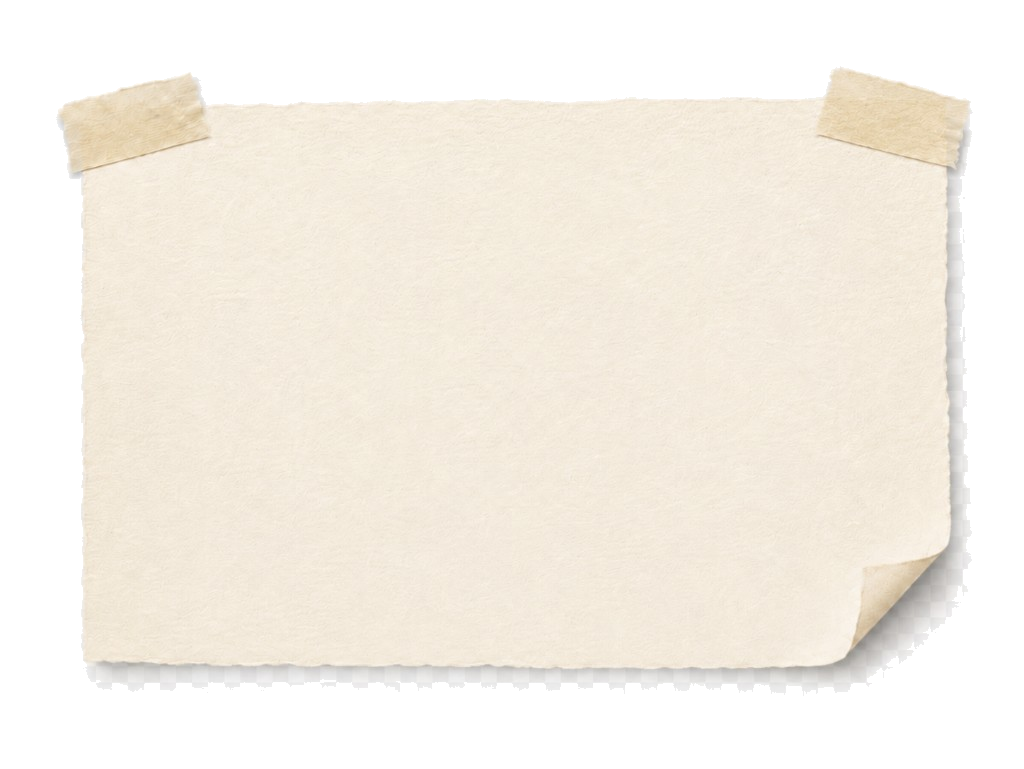
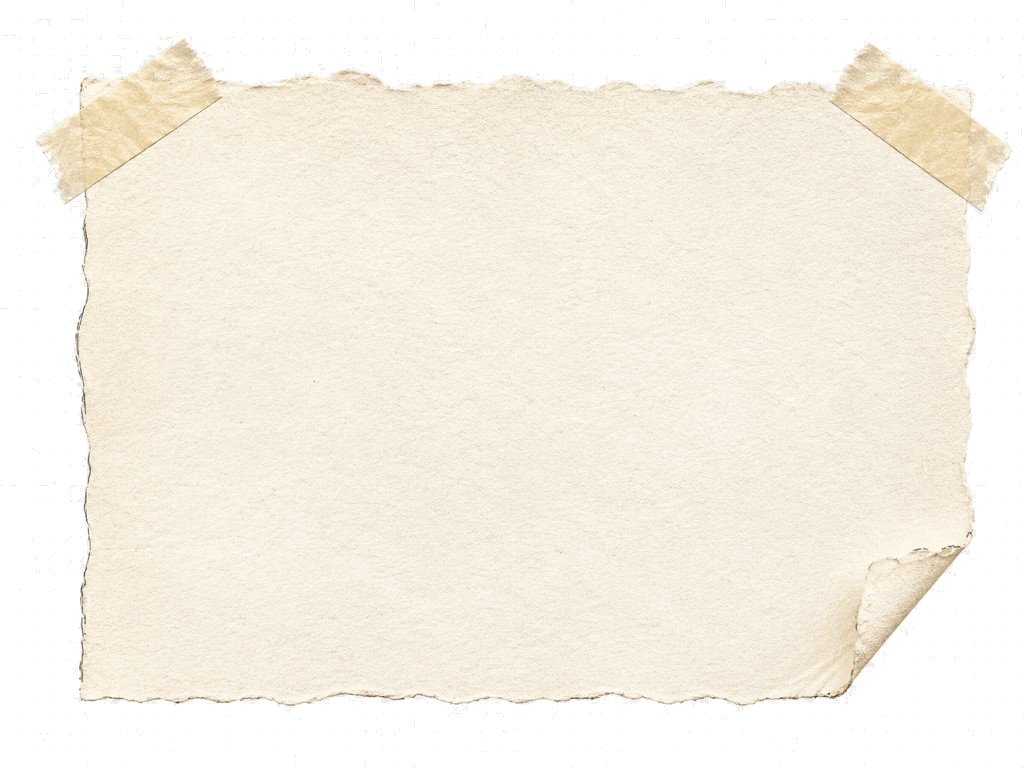
zetteln layout

Changed region(s): [[0.0312, 0.0312, 1.0, 0.9375], [0.0625, 0.5625, 0.0938, 0.75], [0.0625, 0.375, 0.0938, 0.5]]

diff --git a/src/index.css b/src/index.css
@@ -891,6 +891,12 @@ html[data-theme="dark"] .journey-walker__frame {
   padding-top: 2px;
   isolation: isolate;
 }
+.journey-chapter--slot-1 {
+  flex: 0 0 clamp(310px, 39vw, 420px);
+}
+.journey-chapter--slot-1 .journey-note {
+  max-width: 420px;
+}
 .journey-chapter--slot-2,
 .journey-chapter--slot-5 {
   flex: 0 0 clamp(320px, 40vw, 436px);
@@ -901,7 +907,7 @@ html[data-theme="dark"] .journey-walker__frame {
 }
 .journey-chapter--slot-2 .journey-note__body,
 .journey-chapter--slot-5 .journey-note__body {
-  padding-bottom: 23%;
+  padding-bottom: 21%;
 }
 .journey-chapter__scene {
   min-height: 92px;
@@ -915,7 +921,7 @@ html[data-theme="dark"] .journey-walker__frame {
   z-index: 2;
   width: 100%;
   max-width: 388px;
-  aspect-ratio: 1024 / 769;
+  aspect-ratio: 1024 / 768;
   background: transparent;
   isolation: isolate;
   transform-origin: 50% 12%;
@@ -932,7 +938,7 @@ html[data-theme="dark"] .journey-walker__frame {
   z-index: 1;
   height: 100%;
   box-sizing: border-box;
-  padding: 13% 11.5% 20% 11.5%;
+  padding: 15.5% 11% 20.5% 12.5%;
   color: #2b2a33;
   display: flex;
   flex-direction: column;
@@ -1168,6 +1174,7 @@ html[data-theme="dark"] .journey-walker__frame {
     margin-bottom: 0;
     scroll-snap-align: none;
   }
+  .journey-chapter--slot-1,
   .journey-chapter--slot-2,
   .journey-chapter--slot-5 {
     flex: 0 0 clamp(284px, 86vw, 400px);